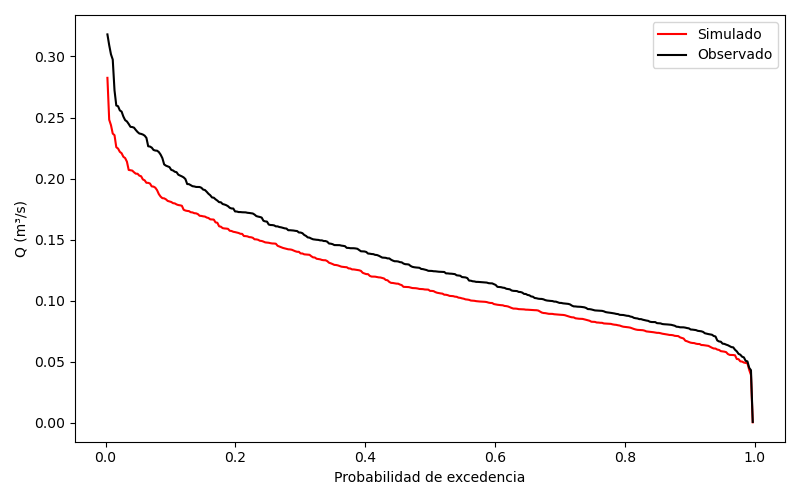
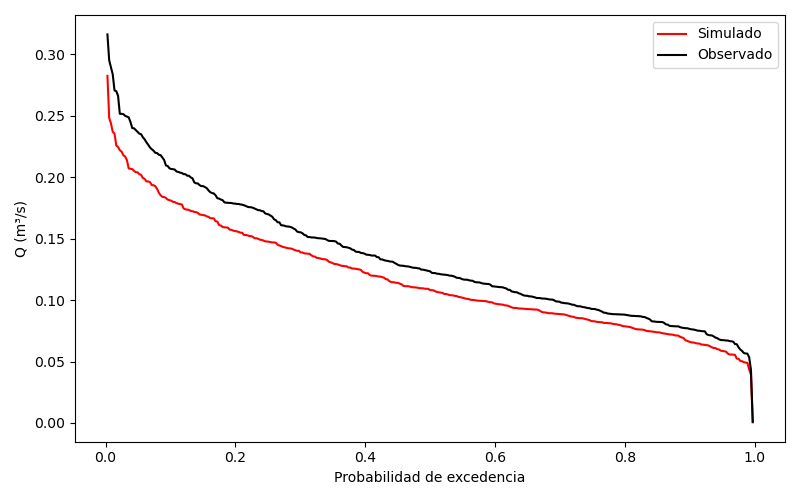
Update calibration data and enhance plotting in example2_rum.py

diff --git a/scripts/example2_rum.py b/scripts/example2_rum.py
@@ -109,19 +109,20 @@ plt.show()
 
 # Crear las figuras con Matplotlib
 fig, ax1 = plt.subplots(figsize=(9, 3))
+calib_df["Q_sim_m3s"].plot(ax=ax1, color="red", label="Simulado")
+calib_df["Q_obs_m3s"].plot(ax=ax1, color="black", label="Observado")
+ax1.set_ylabel("Caudal (m³/s)")
+ax1.legend(loc="upper left")
 
-# Crear un segundo eje para la lluvia (barra azul)
 ax2 = ax1.twinx()
 calib_df["P_mm"].plot(kind="bar", ax=ax2, color="blue", alpha=0.3, width=1.0, label="Precipitación")
-
-# Etiquetas y leyenda
-ax1.set_ylabel("Caudal (m³/s)")
 ax2.set_ylabel("Precipitación (mm)")
-ax1.set_title("Comparación caudal simulado vs observado con precipitación")
-ax1.legend(loc="upper left")
 ax2.legend(loc="upper right")
 
+ax1.set_title("Caudal simulado vs. observado y precipitación")
+plt.tight_layout()
 plt.show()
+
 
 
 output_path = data_dir / "simulation_output.csv"
